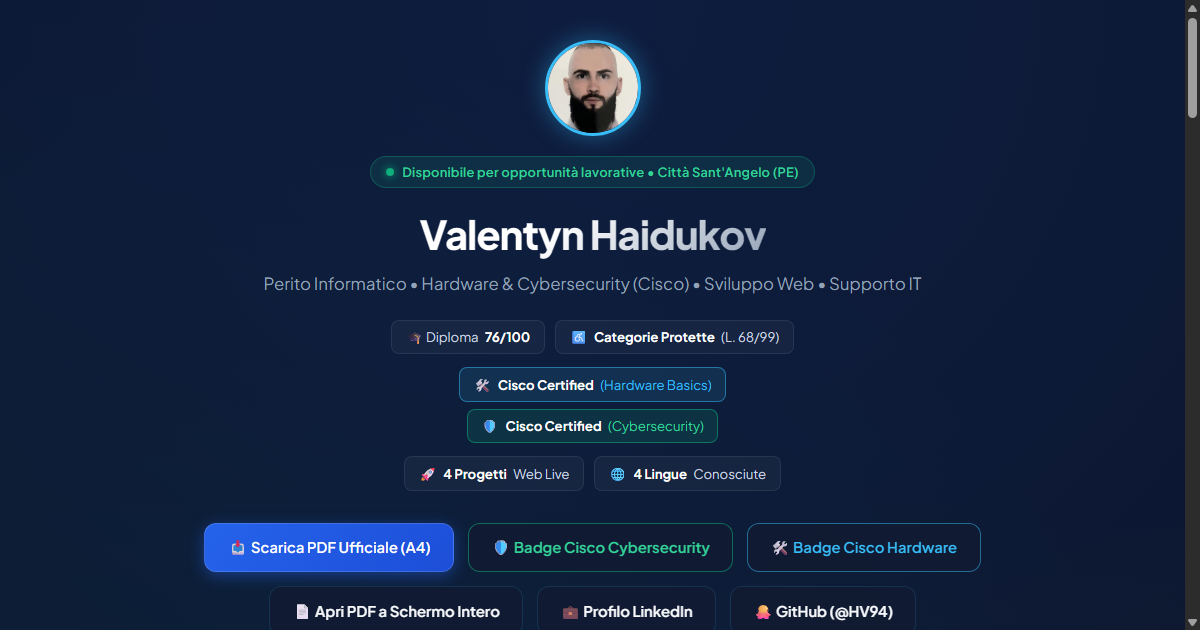
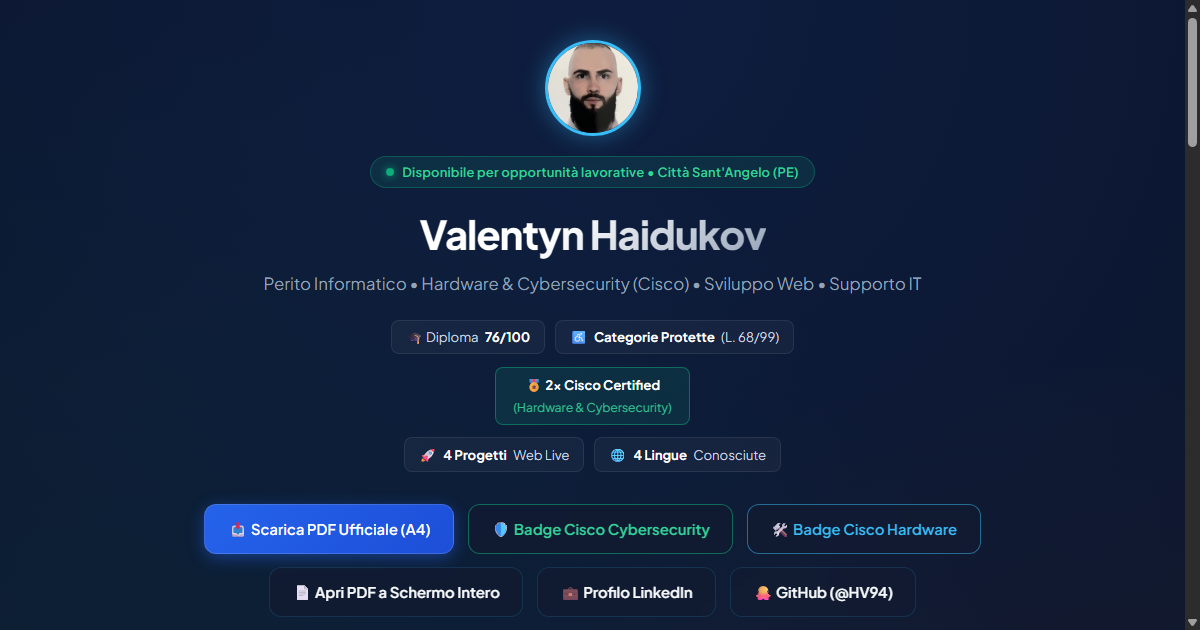
feat: pillola unificata 2x Cisco Certified (Hardware & Cybersecurity) sotto Categorie Protette

Changed region(s): [[0.1542, 0.6032, 0.8017, 0.9952], [0.9867, 0.181, 1.0, 0.2413]]

diff --git a/index.html b/index.html
@@ -240,14 +240,14 @@
 
     /* Key Metrics Bar */
 
-        .metrics-bar {
+            .metrics-bar {
       display: flex;
       flex-wrap: wrap;
       justify-content: center;
       align-items: center;
       gap: 0.65rem;
       margin-bottom: 2rem;
-      max-width: 800px;
+      max-width: 850px;
       margin-left: auto;
       margin-right: auto;
     }
@@ -262,25 +262,13 @@
       border-radius: 8px;
       font-size: 0.82rem;
       color: #cbd5e1;
-    }
-
-    .cisco-badges-group {
-      width: 100%;
-      display: flex;
-      flex-direction: column;
-      align-items: center;
-      gap: 0.45rem;
-      margin: 0.15rem 0;
+      text-align: center;
     }
 
     @media (max-width: 640px) {
       .metrics-bar {
         flex-direction: column;
         align-items: center;
-        gap: 0.5rem;
-      }
-      .cisco-badges-group {
-        margin: 0;
         gap: 0.5rem;
       }
     }
@@ -801,14 +789,16 @@
 
     
 
-        <!-- Metrics Bar -->
+                    <!-- Metrics Bar -->
     <div class="metrics-bar">
       <div class="metric-badge">🎓 Diploma <strong>76/100</strong></div>
       <div class="metric-badge">♿ <strong>Categorie Protette</strong> (L. 68/99)</div>
       
-      <div class="cisco-badges-group">
-        <div class="metric-badge" style="border-color: rgba(56, 189, 248, 0.5); background: rgba(56, 189, 248, 0.12); color: #38bdf8;">🛠 <strong>Cisco Certified</strong> (Hardware Basics)</div>
-        <div class="metric-badge" style="border-color: rgba(16, 185, 129, 0.5); background: rgba(16, 185, 129, 0.14); color: #34d399;">🛡 <strong>Cisco Certified</strong> (Cybersecurity)</div>
+      <div style="flex-basis: 100%; display: flex; justify-content: center; margin: 0.15rem 0;">
+        <div class="metric-badge" style="border-color: rgba(16, 185, 129, 0.45); background: rgba(16, 185, 129, 0.12); color: #34d399; flex-direction: column; gap: 0.2rem; padding: 0.45rem 1.1rem;">
+          <div>🎖 <strong>2x Cisco Certified</strong></div>
+          <div style="font-size: 0.76rem; opacity: 0.92;">(Hardware & Cybersecurity)</div>
+        </div>
       </div>
 
       <div class="metric-badge">🚀 <strong>4 Progetti</strong> Web Live</div>
